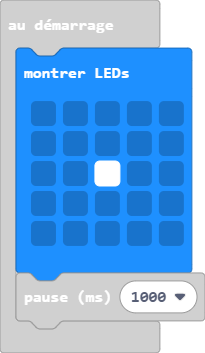
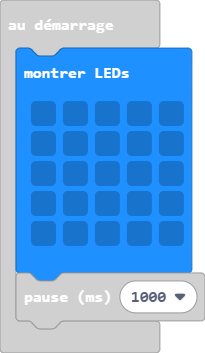
Mise à jour main.blocks, main.ts

Changed region(s): [[0.439, 0.4363, 0.6146, 0.5297]]

diff --git a/main.ts b/main.ts
@@ -1,7 +1,7 @@
 basic.showLeds(`
     . . . . .
     . . . . .
-    . . # . .
+    . . . . .
     . . . . .
     . . . . .
     `)
